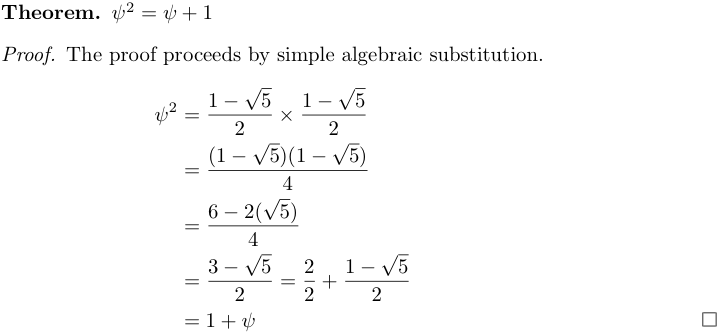
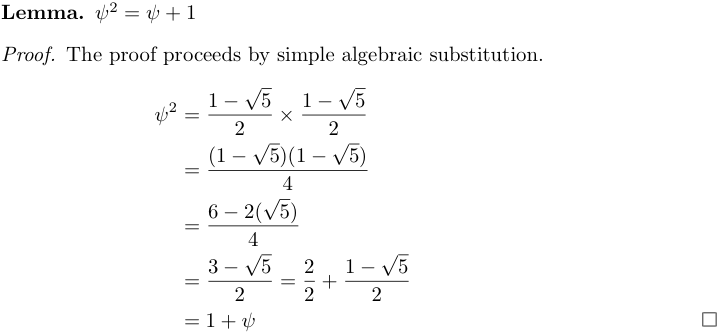
Call the introductory proofs for 1.13 lemmas, not theorems

Changed region(s): [[0.0, 0.0, 0.306, 0.0595]]

diff --git a/ch01.scm.md b/ch01.scm.md
@@ -332,10 +332,10 @@ useful to know whether the first property also holds for ψ, i.e. `ψ² = ψ + 1
 
 ![$
 \minipage{1.0\textwidth}
-\newtheorem*{theorem}{Theorem}
-\begin{theorem}
+\newtheorem*{lemma}{Lemma}
+\begin{lemma}
 $\psi^2 = \psi + 1$
-\end{theorem}
+\end{lemma}
 \begin{proof}
 The proof proceeds by simple algebraic substitution.
 \begin{align*}
@@ -354,10 +354,10 @@ It does!  We can use this property of both Φ and ψ to show that `Φⁿ = Φⁿ
 
 ![$
 \minipage{1.0\textwidth}
-\newtheorem*{theorem}{Theorem}
-\begin{theorem}
+\newtheorem*{lemma}{Lemma}
+\begin{lemma}
 $\phi^n = \phi^{n-1} + \phi^{n-2}$
-\end{theorem}
+\end{lemma}
 \begin{proof}
 \begin{align*}
 \phi^n &= \phi \times \phi^{n-1} = \phi \times \phi \times \phi^{n-2} = \phi^2 \times \phi^{n-2} \\
